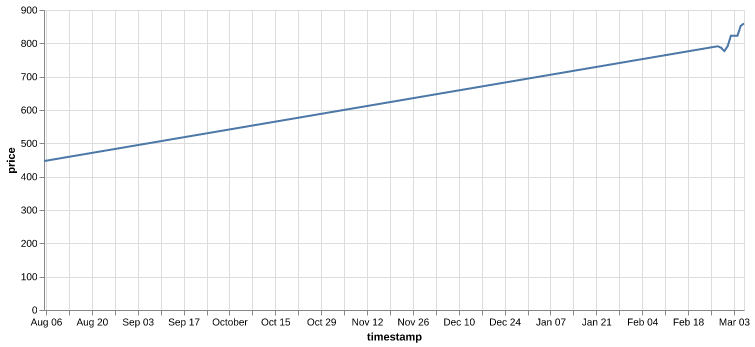
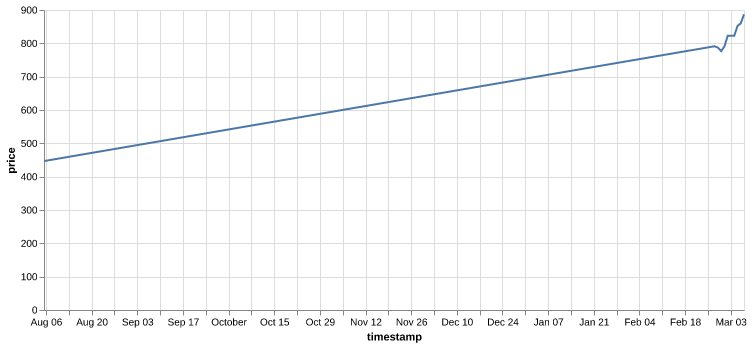
Latest data: Thu Mar  7 01:33:00 UTC 2024

diff --git a/docs/index.html b/docs/index.html
@@ -10,7 +10,7 @@
     <body>
     <div class="container">
         <h1>On this page we are tracking the price of the NVDA stock</h1>
-        <p>The maximum price since we started tracking was 859.64</p>
+        <p>The maximum price since we started tracking was 887.0</p>
         <p>The minimum price since we started tracking was 446.8</p>
         <img src="output.png">
         <br/>
